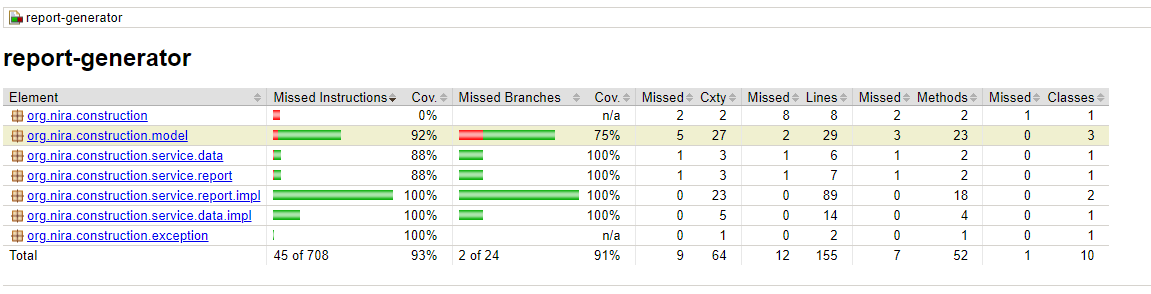
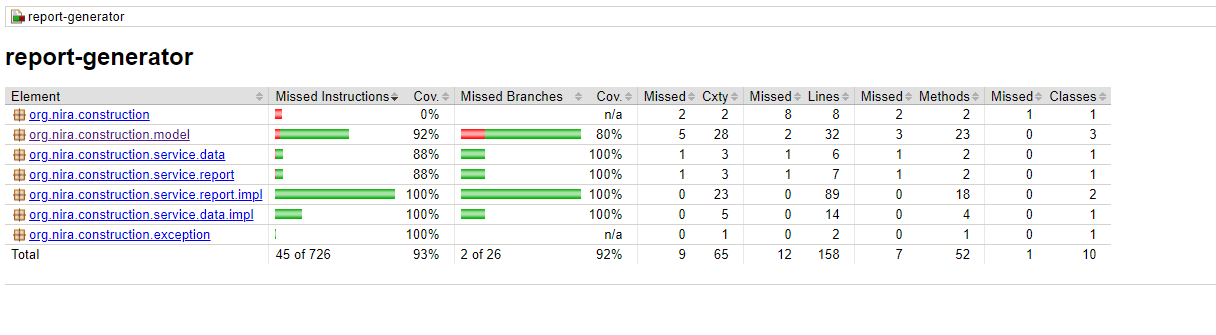
validate for customer id and contract id for zero value

Changed region(s): [[0.0, 0.1531, 1.0, 0.8878], [0.0, 0.0, 1.0, 0.1224], [0.0, 0.949, 1.0, 0.9796]]

diff --git a/report-generator/src/test/java/org/nira/construction/service/data/impl/CsvFileDataReaderServiceImplTest.java b/report-generator/src/test/java/org/nira/construction/service/data/impl/CsvFileDataReaderServiceImplTest.java
@@ -42,7 +42,8 @@ public class CsvFileDataReaderServiceImplTest {
       "invalid_number_build_duration.csv, invalid data for Build Duration",
       "empty_geozone.csv, invalid data for Geozone",
       "empty_team_code.csv, invalid data for Team Code",
-      "empty_project_code.csv, invalid data for Project Code"
+      "empty_project_code.csv, invalid data for Project Code",
+      "zero_customer_id.csv, invalid data for Customer Id"
   })
   void testReadFile_withInvalidCsvFile_throwConstructionException(String filename, String errorMessage) {
     ConstructionException exception = assertThrows(ConstructionException.class,

diff --git a/report-generator/src/main/java/org/nira/construction/model/ConstructionInfo.java b/report-generator/src/main/java/org/nira/construction/model/ConstructionInfo.java
@@ -29,9 +29,12 @@ public class ConstructionInfo {
   }
 
   private Integer getIntegerValue(final String data, final String fieldName) {
-    //ToDo: add validation for "0"
     try {
-      return Integer.parseInt(data);
+      Integer value = Integer.parseInt(data.trim());
+      if (value == 0) {
+        throw new ConstructionException(String.format(ERROR_MESSAGE, fieldName));
+      }
+      return value;
     } catch (NumberFormatException e) {
       throw new ConstructionException(String.format(ERROR_MESSAGE, fieldName));
     }
